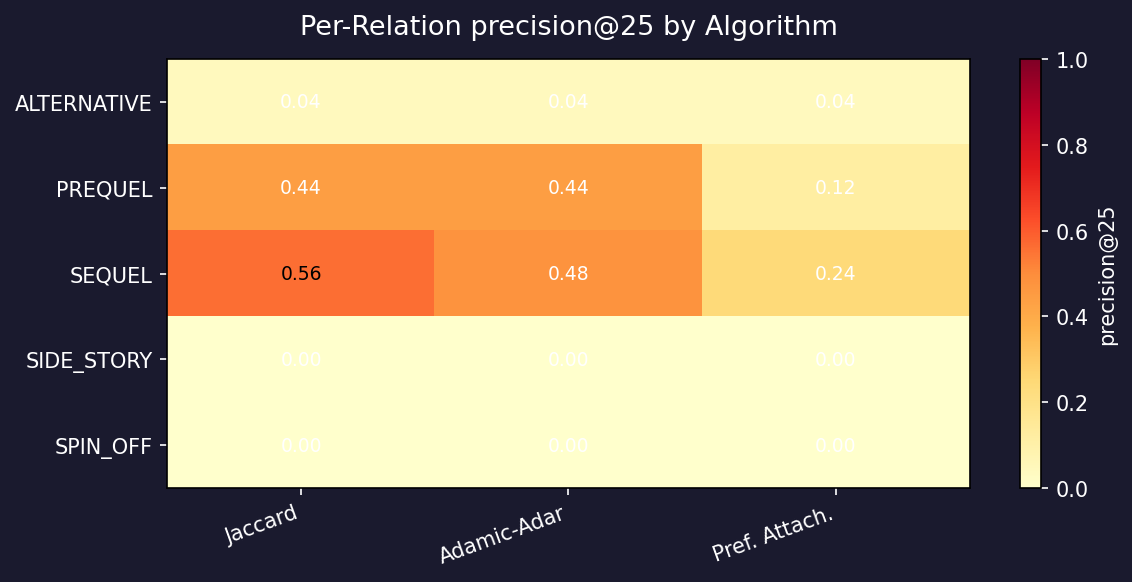
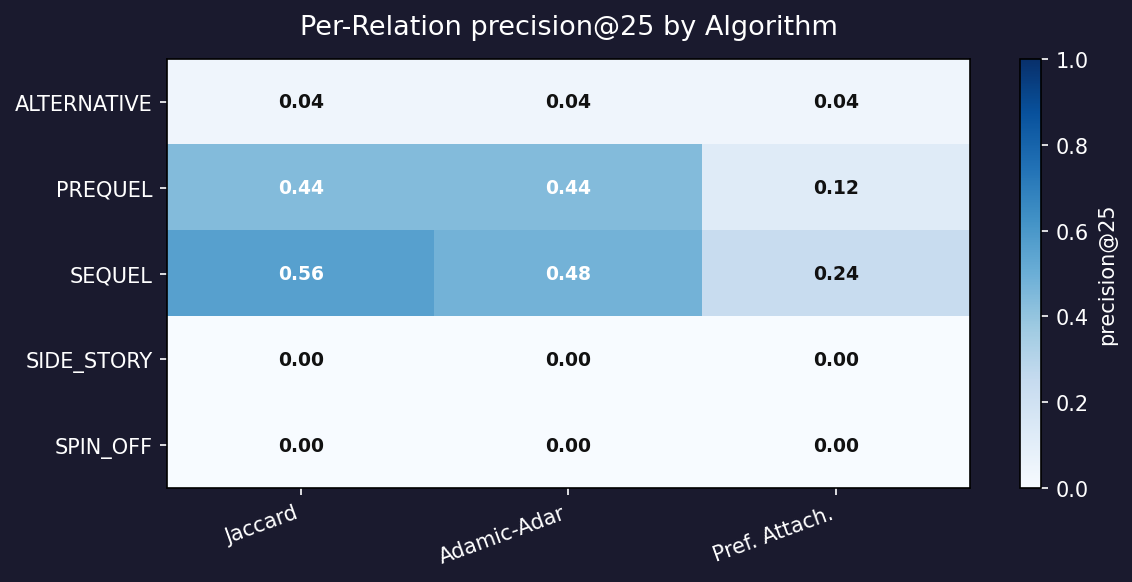
updated visualize.py to have more cleaner and clear graph

diff --git a/results/graph_projection.html b/results/graph_projection.html
@@ -33,7 +33,7 @@
 
              #mynetwork {
                  width: 100%;
-                 height: 100vh;
+                 height: 750px;
                  background-color: #1a1a2e;
                  border: 1px solid lightgray;
                  position: relative;
@@ -100,7 +100,44 @@
                   // adding nodes and edges to the graph
                   data = {nodes: nodes, edges: edges};
 
-                  var options = {"physics": {"solver": "barnesHut", "barnesHut": {"gravitationalConstant": -6000, "centralGravity": 0.3, "springLength": 100, "springConstant": 0.04, "damping": 0.09}, "stabilization": {"enabled": true, "iterations": 1000, "updateInterval": 50, "fit": true}, "minVelocity": 0.75}};
+                  var options = {
+    "configure": {
+        "enabled": false
+    },
+    "edges": {
+        "color": {
+            "inherit": true
+        },
+        "smooth": {
+            "enabled": true,
+            "type": "dynamic"
+        }
+    },
+    "interaction": {
+        "dragNodes": true,
+        "hideEdgesOnDrag": false,
+        "hideNodesOnDrag": false
+    },
+    "physics": {
+        "enabled": true,
+        "forceAtlas2Based": {
+            "avoidOverlap": 0,
+            "centralGravity": 0.005,
+            "damping": 0.4,
+            "gravitationalConstant": -30,
+            "springConstant": 0.04,
+            "springLength": 100
+        },
+        "solver": "forceAtlas2Based",
+        "stabilization": {
+            "enabled": true,
+            "fit": true,
+            "iterations": 1000,
+            "onlyDynamicEdges": false,
+            "updateInterval": 50
+        }
+    }
+};
 
                   
 
@@ -123,17 +160,5 @@
               }
               drawGraph();
         </script>
-    
-    <script>
-    document.addEventListener("DOMContentLoaded", function() {
-        setTimeout(function() {
-            if (typeof network !== "undefined") {
-                network.once("stabilizationIterationsDone", function() {
-                    network.setOptions({ physics: { enabled: false } });
-                });
-            }
-        }, 500);
-    });
-    </script>
     </body>
 </html>

diff --git a/visualize.py b/visualize.py
@@ -27,15 +27,23 @@ import json
 import os
 import sys
 from collections import defaultdict
-from typing import Optional
+from typing import TYPE_CHECKING, Optional
+
+# TYPE_CHECKING block gives Pylance the real types for autocomplete/checking
+# without actually importing at runtime when the packages may be missing.
+if TYPE_CHECKING:
+    import matplotlib.pyplot as plt
+    import matplotlib.patches as mpatches
+    import numpy as np
+    from pyvis.network import Network
 
 # Matplotlib (required)
 try:
     import matplotlib
     matplotlib.use("Agg")   # headless backend
-    import matplotlib.pyplot as plt
-    import matplotlib.patches as mpatches
-    import numpy as np
+    import matplotlib.pyplot as plt  # type: ignore[no-redef]
+    import matplotlib.patches as mpatches  # type: ignore[no-redef]
+    import numpy as np  # type: ignore[no-redef]
     HAS_MPL = True
 except ImportError:
     HAS_MPL = False
@@ -43,7 +51,7 @@ except ImportError:
 
 # pyvis (optional)
 try:
-    from pyvis.network import Network
+    from pyvis.network import Network  # type: ignore[no-redef]
     HAS_PYVIS = True
 except ImportError:
     HAS_PYVIS = False
@@ -100,89 +108,28 @@ def build_pyvis_hetero(
     top_ids = {a["id"] for a in anime_by_attrs}
 
     net = Network(
-        height="100vh", width="100%",
+        height="750px", width="100%",
         bgcolor="#1a1a2e",
         notebook=False, directed=False,
     )
-    # Use barnesHut instead of forceAtlas2Based — it settles much faster
-    # on large graphs and does not drift/rotate after stabilization.
-    # Physics is disabled entirely once stabilization completes.
-    # Use barnesHut with high damping and pinned hub nodes.
-    # High-degree genre/studio hubs (e.g. "Action", "MANGA") cause thrashing
-    # because their enormous force gradients ripple through the whole graph.
-    # Pinning them (physics=False) removes that instability entirely.
-    net.set_options(json.dumps({
-        "physics": {
-            "solver": "barnesHut",
-            "barnesHut": {
-                "gravitationalConstant": -3000,
-                "centralGravity": 0.1,
-                "springLength": 150,
-                "springConstant": 0.02,
-                "damping": 0.4,
-                "avoidOverlap": 0.5
-            },
-            "stabilization": {
-                "enabled": True,
-                "iterations": 2000,
-                "updateInterval": 100,
-                "fit": True
-            },
-            "minVelocity": 1.0,
-            "maxVelocity": 30
-        },
-        "nodes": {
-            "font": {"color": "#e0e0e0"}
-        }
-    }))
+    net.force_atlas_2based(gravity=-50, central_gravity=0.01,
+                           spring_length=120, spring_strength=0.05)
 
     added_nodes: set = set()
 
-    # Count connections per attribute node to identify high-degree hubs
-    genre_counts: dict[str, int] = {}
-    studio_counts: dict[str, int] = {}
-    for anime in anime_by_attrs:
-        for g in anime["genres"]:
-            gk = f"genre_{g.replace(' ', '_')}"
-            genre_counts[gk] = genre_counts.get(gk, 0) + 1
-        for s in anime["studios"]:
-            sk = f"studio_{s.replace(' ', '_')}"
-            studio_counts[sk] = studio_counts.get(sk, 0) + 1
-
-    # Count connections per anime node (genres + studios it belongs to)
-    anime_conn_counts: dict[str, int] = {
-        f"anime_{a['id']}": len(a["genres"]) + len(a["studios"])
-        for a in anime_by_attrs
-    }
-
-    # Pin attribute nodes connected to 8+ anime — these are the hubs
-    # that cause thrashing when left free in the physics simulation
-    PIN_THRESHOLD = 8
-
-    def add_node(node_id: str, label: str, ntype: str, size: int = 15,
-                 full_label: str = ""):
+    def add_node(node_id: str, label: str, ntype: str, size: int = 15):
         if node_id not in added_nodes:
-            if ntype == "anime":
-                degree = anime_conn_counts.get(node_id, 0)
-                pin = False
-                tooltip = f"{full_label or label}\nType: {ntype}\nConnections: {degree}"
-            else:
-                degree = genre_counts.get(node_id, studio_counts.get(node_id, 0))
-                pin = ntype in ("genre", "studio") and degree >= PIN_THRESHOLD
-                tooltip = f"Type: {ntype}\n{label}\nConnections: {degree}"
             net.add_node(
                 node_id, label=label,
                 color=NODE_COLORS.get(ntype, "#aaaaaa"),
                 size=size,
-                title=tooltip,
-                physics=not pin,
+                title=f"Type: {ntype}\n{label}",
             )
             added_nodes.add(node_id)
 
     for anime in anime_by_attrs:
         a_node = f"anime_{anime['id']}"
-        full_title = anime["title"]
-        add_node(a_node, full_title[:30], "anime", size=20, full_label=full_title)
+        add_node(a_node, anime["title"][:30], "anime", size=20)
 
         for g in anime["genres"]:
             g_node = f"genre_{g.replace(' ', '_')}"
@@ -208,58 +155,18 @@ def build_pyvis_hetero(
             dashes=(triple["relation"] in {"ALTERNATIVE", "SIDE_STORY"}),
         )
 
-    # Legend injected as an HTML overlay after save_graph
-    # (pyvis legend nodes end up inside the physics space and overlap the graph)
-    LEGEND_ITEMS = list(NODE_COLORS.items()) + list(RELATION_COLORS.items())
-    LEGEND_LABELS = {
-        "anime": "Anime", "genre": "Genre", "studio": "Studio", "source": "Source",
-        "SEQUEL": "SEQUEL", "PREQUEL": "PREQUEL",
-        "SIDE_STORY": "SIDE_STORY", "SPIN_OFF": "SPIN_OFF", "ALTERNATIVE": "ALTERNATIVE",
-    }
+    # Legend as isolated nodes in a corner
+    legend_items = list(NODE_COLORS.items()) + list(RELATION_COLORS.items())
+    for i, (label, color) in enumerate(legend_items):
+        lid = f"__legend_{i}"
+        net.add_node(lid, label=label, color=color, size=8,
+                     x=-900, y=-400 + i * 40, physics=False,
+                     font={"size": 10})
 
     if out_path is None:
         out_path = os.path.join(OUT_DIR, "graph_hetero.html")
     os.makedirs(os.path.dirname(out_path), exist_ok=True)
     net.save_graph(out_path)
-
-    # Post-process HTML: add stabilization kill switch + HTML legend overlay
-    with open(out_path, "r", encoding="utf-8") as f:
-        html = f.read()
-
-    # Build legend HTML — fixed position bottom-right, outside the graph canvas
-    legend_rows = ""
-    for key, color in LEGEND_ITEMS:
-        label = LEGEND_LABELS.get(key, key)
-        sep = "<hr style=\'margin:4px 0;border-color:#333\'>" if key == "SEQUEL" else ""
-        legend_rows += f"""{sep}<div style=\'display:flex;align-items:center;gap:6px;margin:2px 0\'>
-            <div style=\'width:12px;height:12px;border-radius:50%;background:{color};flex-shrink:0\'></div>
-            <span style=\'font-size:11px;color:#e0e0e0\'>{label}</span></div>"""
-
-    legend_div = f"""
-    <div style='position:fixed;bottom:18px;right:18px;background:rgba(10,22,40,0.92);
-                border:1px solid #1B6CA8;border-radius:8px;padding:10px 14px;
-                z-index:9999;pointer-events:none;min-width:140px;'>
-      <div style='font-size:11px;font-weight:bold;color:#0D9E8F;margin-bottom:6px;'>Legend</div>
-      {legend_rows}
-    </div>"""
-
-    inject = """
-    <script>
-    document.addEventListener("DOMContentLoaded", function() {
-        setTimeout(function() {
-            if (typeof network !== "undefined") {
-                network.once("stabilizationIterationsDone", function() {
-                    network.setOptions({ physics: { enabled: false } });
-                });
-            }
-        }, 500);
-    });
-    </script>
-    """
-    html = html.replace("</body>", legend_div + inject + "</body>")
-    with open(out_path, "w", encoding="utf-8") as f:
-        f.write(html)
-
     print(f"[visualize] Saved interactive KG  -> {out_path}")
     return out_path
 
@@ -287,29 +194,12 @@ def build_pyvis_projection(
     id_to_title = {a["id"]: a["title"] for a in anime_list}
 
     net = Network(
-        height="100vh", width="100%",
+        height="750px", width="100%",
         bgcolor="#1a1a2e", font_color="#e0e0e0",  # type: ignore[arg-type]
         notebook=False,
     )
-    net.set_options(json.dumps({
-        "physics": {
-            "solver": "barnesHut",
-            "barnesHut": {
-                "gravitationalConstant": -6000,
-                "centralGravity": 0.3,
-                "springLength": 100,
-                "springConstant": 0.04,
-                "damping": 0.09
-            },
-            "stabilization": {
-                "enabled": True,
-                "iterations": 1000,
-                "updateInterval": 50,
-                "fit": True
-            },
-            "minVelocity": 0.75
-        }
-    }))
+    net.force_atlas_2based(gravity=-30, central_gravity=0.005,
+                           spring_length=100, spring_strength=0.04)
 
     for aid in top_ids:
         deg   = degrees.get(aid, 0)
@@ -353,27 +243,6 @@ def build_pyvis_projection(
         out_path = os.path.join(OUT_DIR, "graph_projection.html")
     os.makedirs(os.path.dirname(out_path), exist_ok=True)
     net.save_graph(out_path)
-
-    # Post-process HTML: disable physics after stabilization
-    with open(out_path, "r", encoding="utf-8") as f:
-        html = f.read()
-    inject = """
-    <script>
-    document.addEventListener("DOMContentLoaded", function() {
-        setTimeout(function() {
-            if (typeof network !== "undefined") {
-                network.once("stabilizationIterationsDone", function() {
-                    network.setOptions({ physics: { enabled: false } });
-                });
-            }
-        }, 500);
-    });
-    </script>
-    """
-    html = html.replace("</body>", inject + "</body>")
-    with open(out_path, "w", encoding="utf-8") as f:
-        f.write(html)
-
     print(f"[visualize] Saved projection graph -> {out_path}")
     return out_path
 
@@ -518,7 +387,7 @@ def chart_per_relation_heatmap(per_relation_type: dict, metric: str = "precision
     )
     ax.set_facecolor("#1a1a2e")
 
-    im = ax.imshow(data, cmap="YlOrRd", aspect="auto", vmin=0, vmax=1)
+    im = ax.imshow(data, cmap="Blues", aspect="auto", vmin=0, vmax=1)
     cbar = fig.colorbar(im, ax=ax)
     cbar.ax.tick_params(colors="white")
     cbar.set_label(metric, color="white")
@@ -532,8 +401,11 @@ def chart_per_relation_heatmap(per_relation_type: dict, metric: str = "precision
     for i in range(len(rel_types)):
         for j in range(len(ALG_NAMES)):
             val = data[i, j]
+            # Dark blue cells (high values) get white text
+            # Light blue / near-zero cells get dark text
+            text_color = "white" if val > 0.35 else "#111111"
             ax.text(j, i, f"{val:.2f}", ha="center", va="center",
-                    fontsize=9, color="black" if val > 0.5 else "white")
+                    fontsize=9, color=text_color, fontweight="bold")
 
     ax.set_title(f"Per-Relation {metric} by Algorithm", color="white", fontsize=13, pad=12)
     fig.tight_layout()